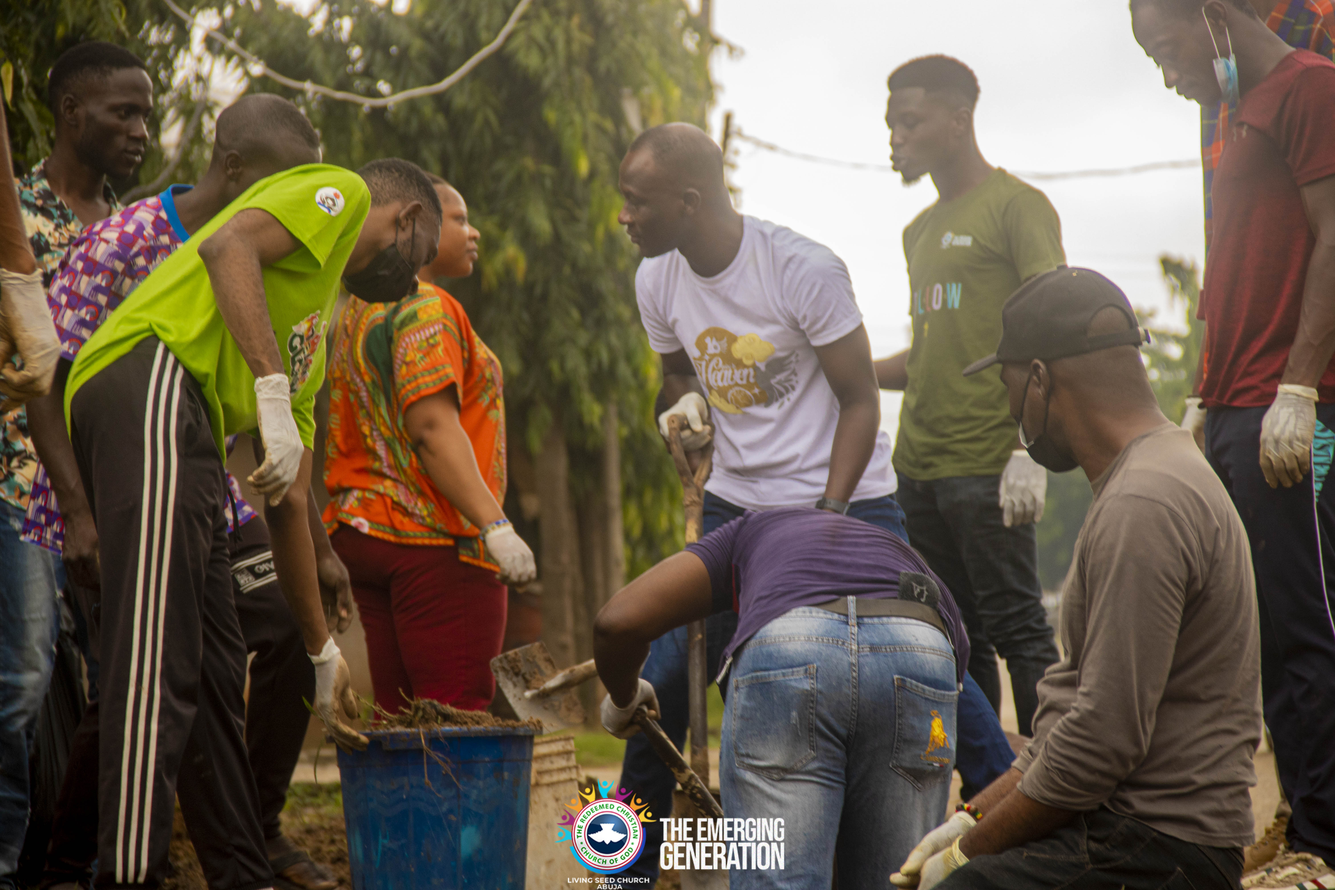
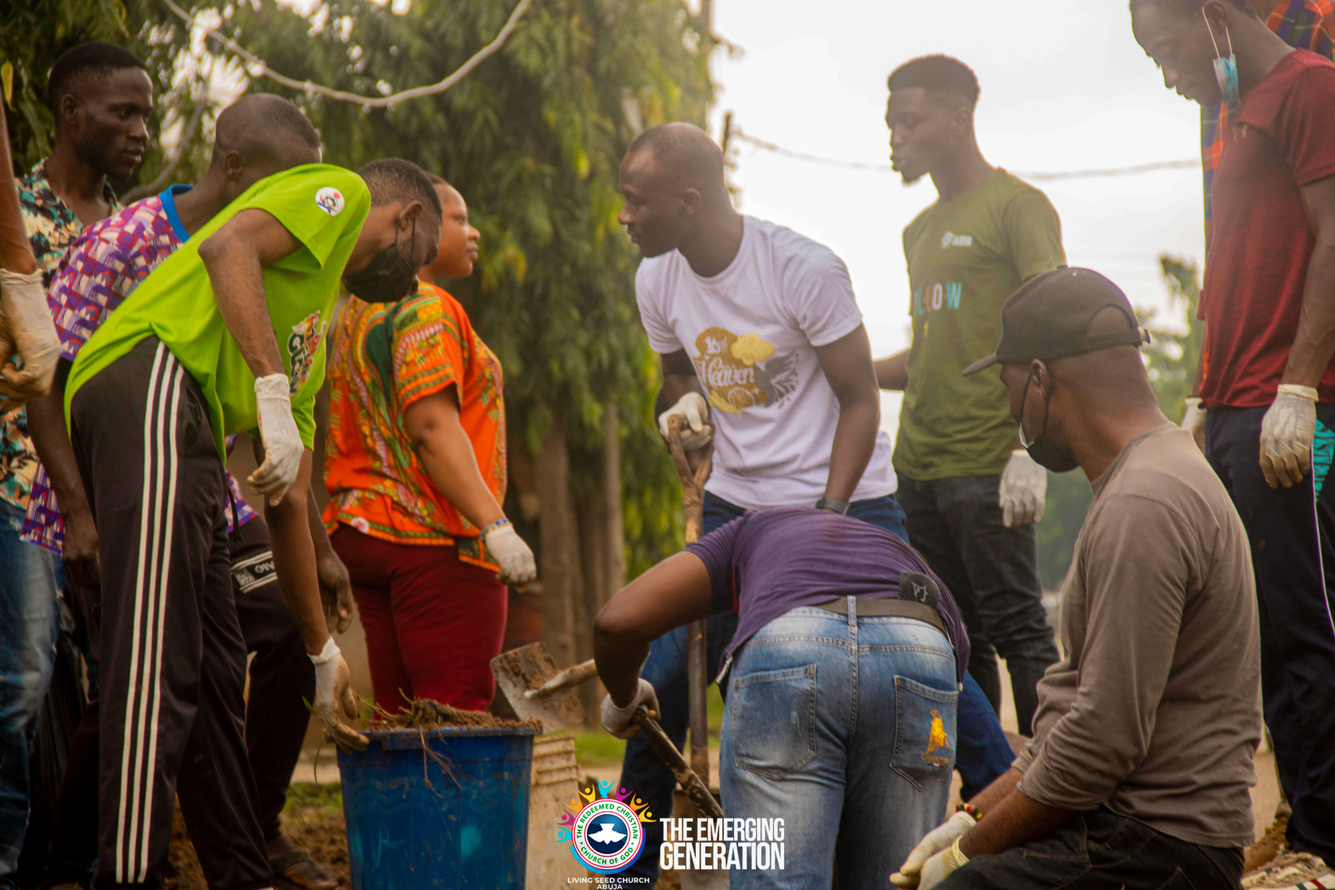
Change images to lesser sizes

diff --git a/src/Components/PhotoBank.jsx b/src/Components/PhotoBank.jsx
@@ -5,16 +5,16 @@ import "react-lazy-load-image-component/src/effects/blur.css";
 import image1 from "../assets/clean.jpg";
 import image2 from "../assets/team.jpg";
 import image3 from "../assets/pst.jpg";
-import image4 from "../assets/rally.jpg";
-import image5 from "../assets/teeworship.jpeg";
+import image4 from "../assets/rally.webp";
+import image5 from "../assets/teeworship.webp";
 import image6 from "../assets/guys.jpg";
-import image7 from "../assets/pfi.jpeg";
-import image8 from "../assets/firstlady.jpg";
-import image9 from "../assets/pdi.jpg";
-import image10 from "../assets/daraa.jpeg";
+import image7 from "../assets/pfi.webp";
+import image8 from "../assets/firstlady.webp";
+import image9 from "../assets/pdi.webp";
+import image10 from "../assets/daraa.webp";
 import image11 from "../assets/levites.jpg";
 import image12 from "../assets/cake.jpg";
-import image13 from "../assets/dancing.jpg";
+import image13 from "../assets/dancing.webp";
 import image14 from "../assets/yellow.jpg";
 import image15 from "../assets/food.jpg";
 

diff --git a/src/Components/OppCarousel.jsx b/src/Components/OppCarousel.jsx
@@ -2,8 +2,8 @@ import React from "react";
 
 import image from "../assets/yellow.jpg";
 import image2 from "../assets/levites.jpg";
-import image3 from "../assets/rally.jpg";
-import image4 from "../assets/firstlady.jpg";
+import image3 from "../assets/rally.webp";
+import image4 from "../assets/firstlady.webp";
 
 const items = [
   { id: 1, content: image, bgColor: "rounded-[50px]" },

diff --git a/src/Components/Carousel.jsx b/src/Components/Carousel.jsx
@@ -1,7 +1,7 @@
 import React from "react";
 
-import image from "../assets/pdi.jpg";
-import image2 from "../assets/teeworship.jpeg";
+import image from "../assets/pdi.webp";
+import image2 from "../assets/teeworship.webp";
 import image3 from "../assets/pst.jpg";
 import image4 from "../assets/team.jpg";
 

diff --git a/src/Components/UpcomingEvents.jsx b/src/Components/UpcomingEvents.jsx
@@ -1,5 +1,5 @@
 import React from "react";
-import image1 from "../assets/img.jpg";
+import image1 from "../assets/pdi.webp";
 
 const UpcomingEvent = () => {
   return (
